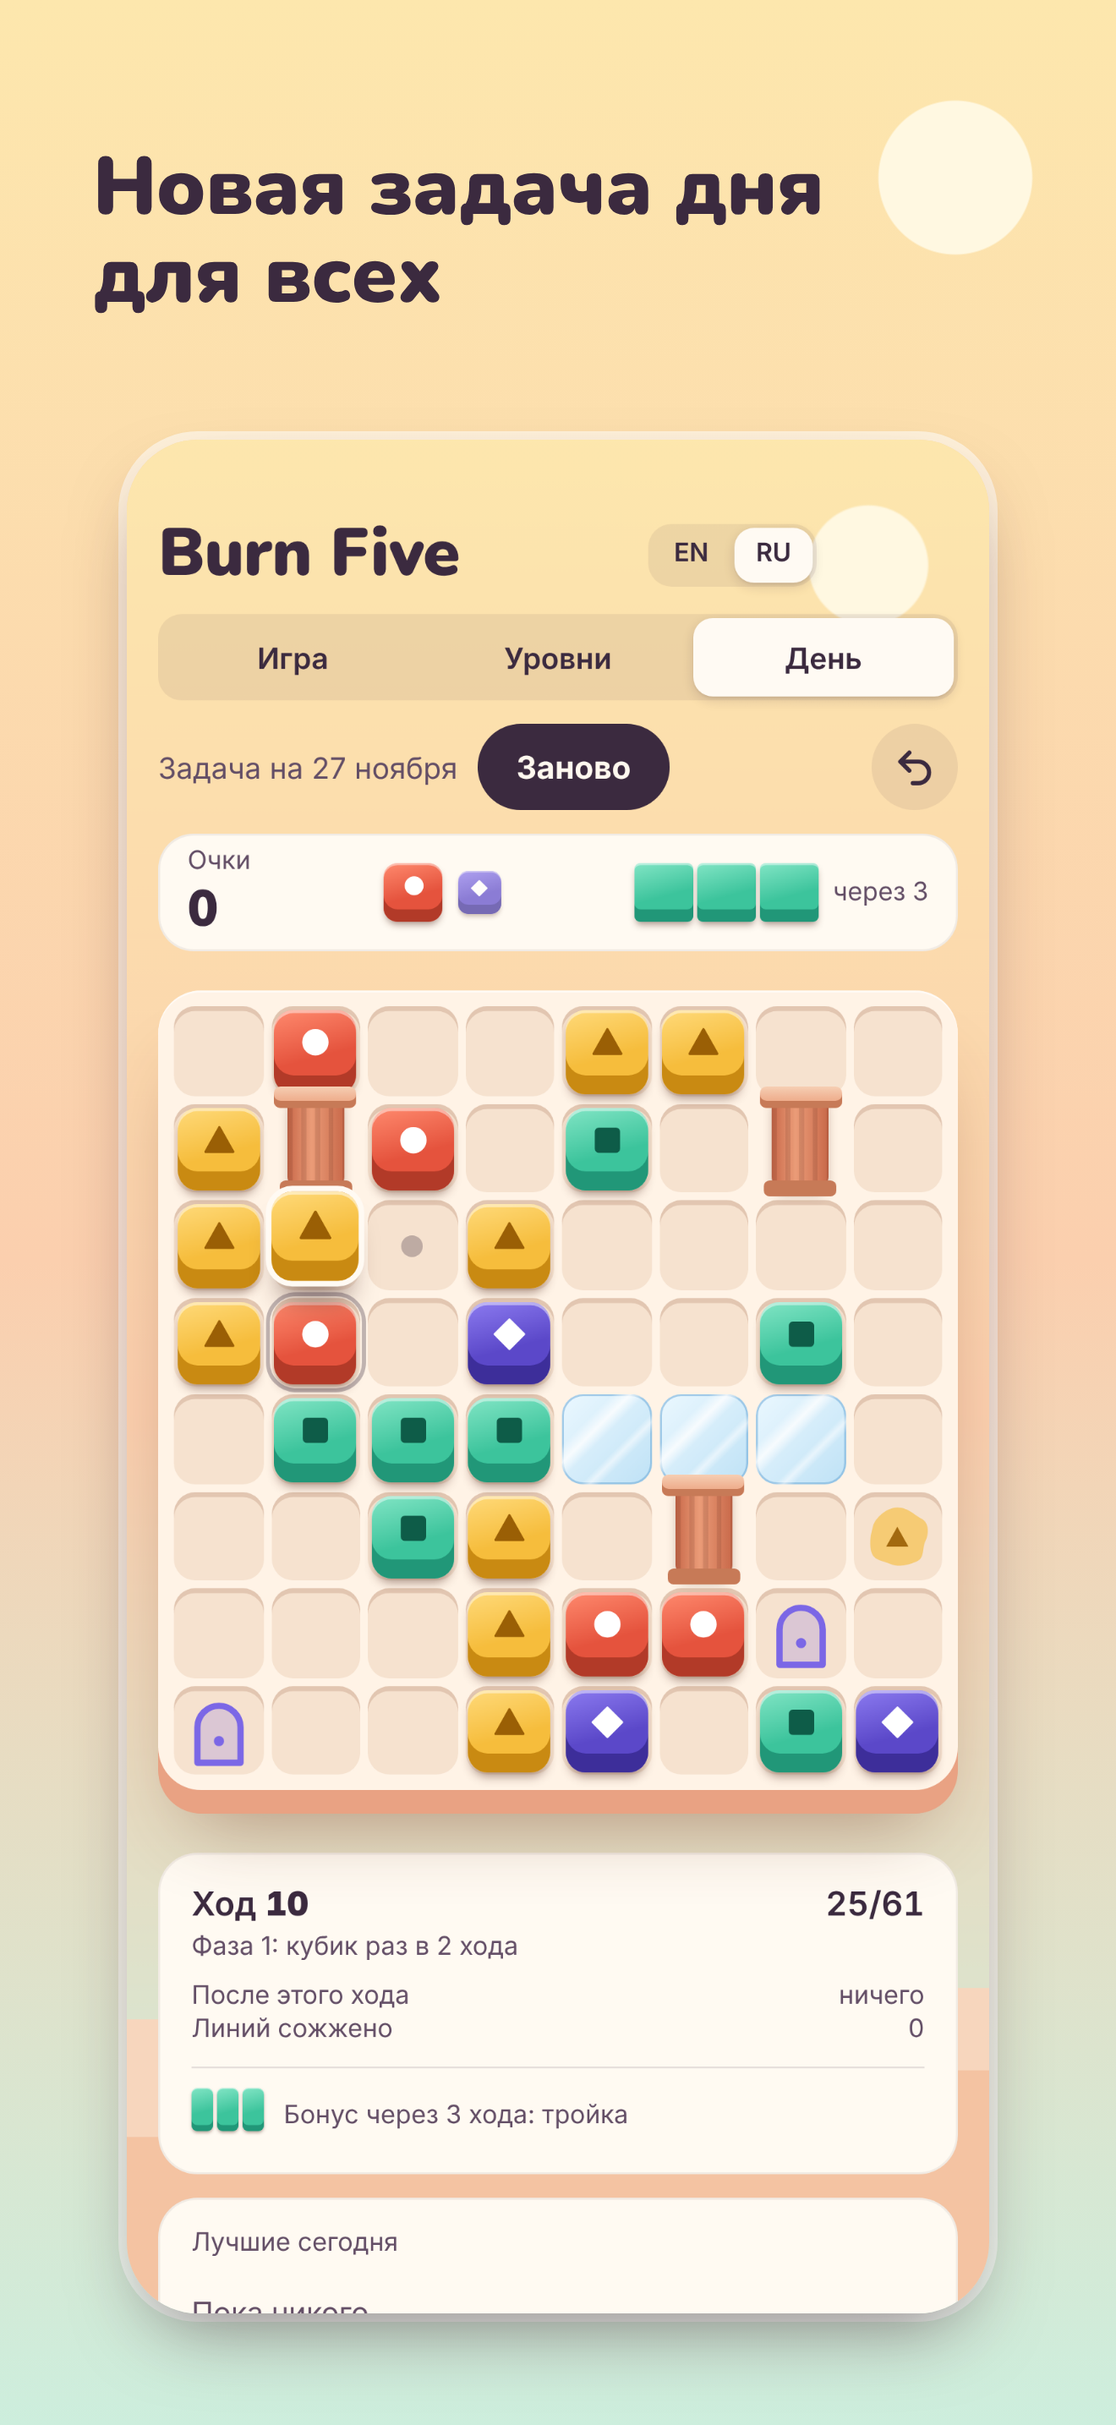
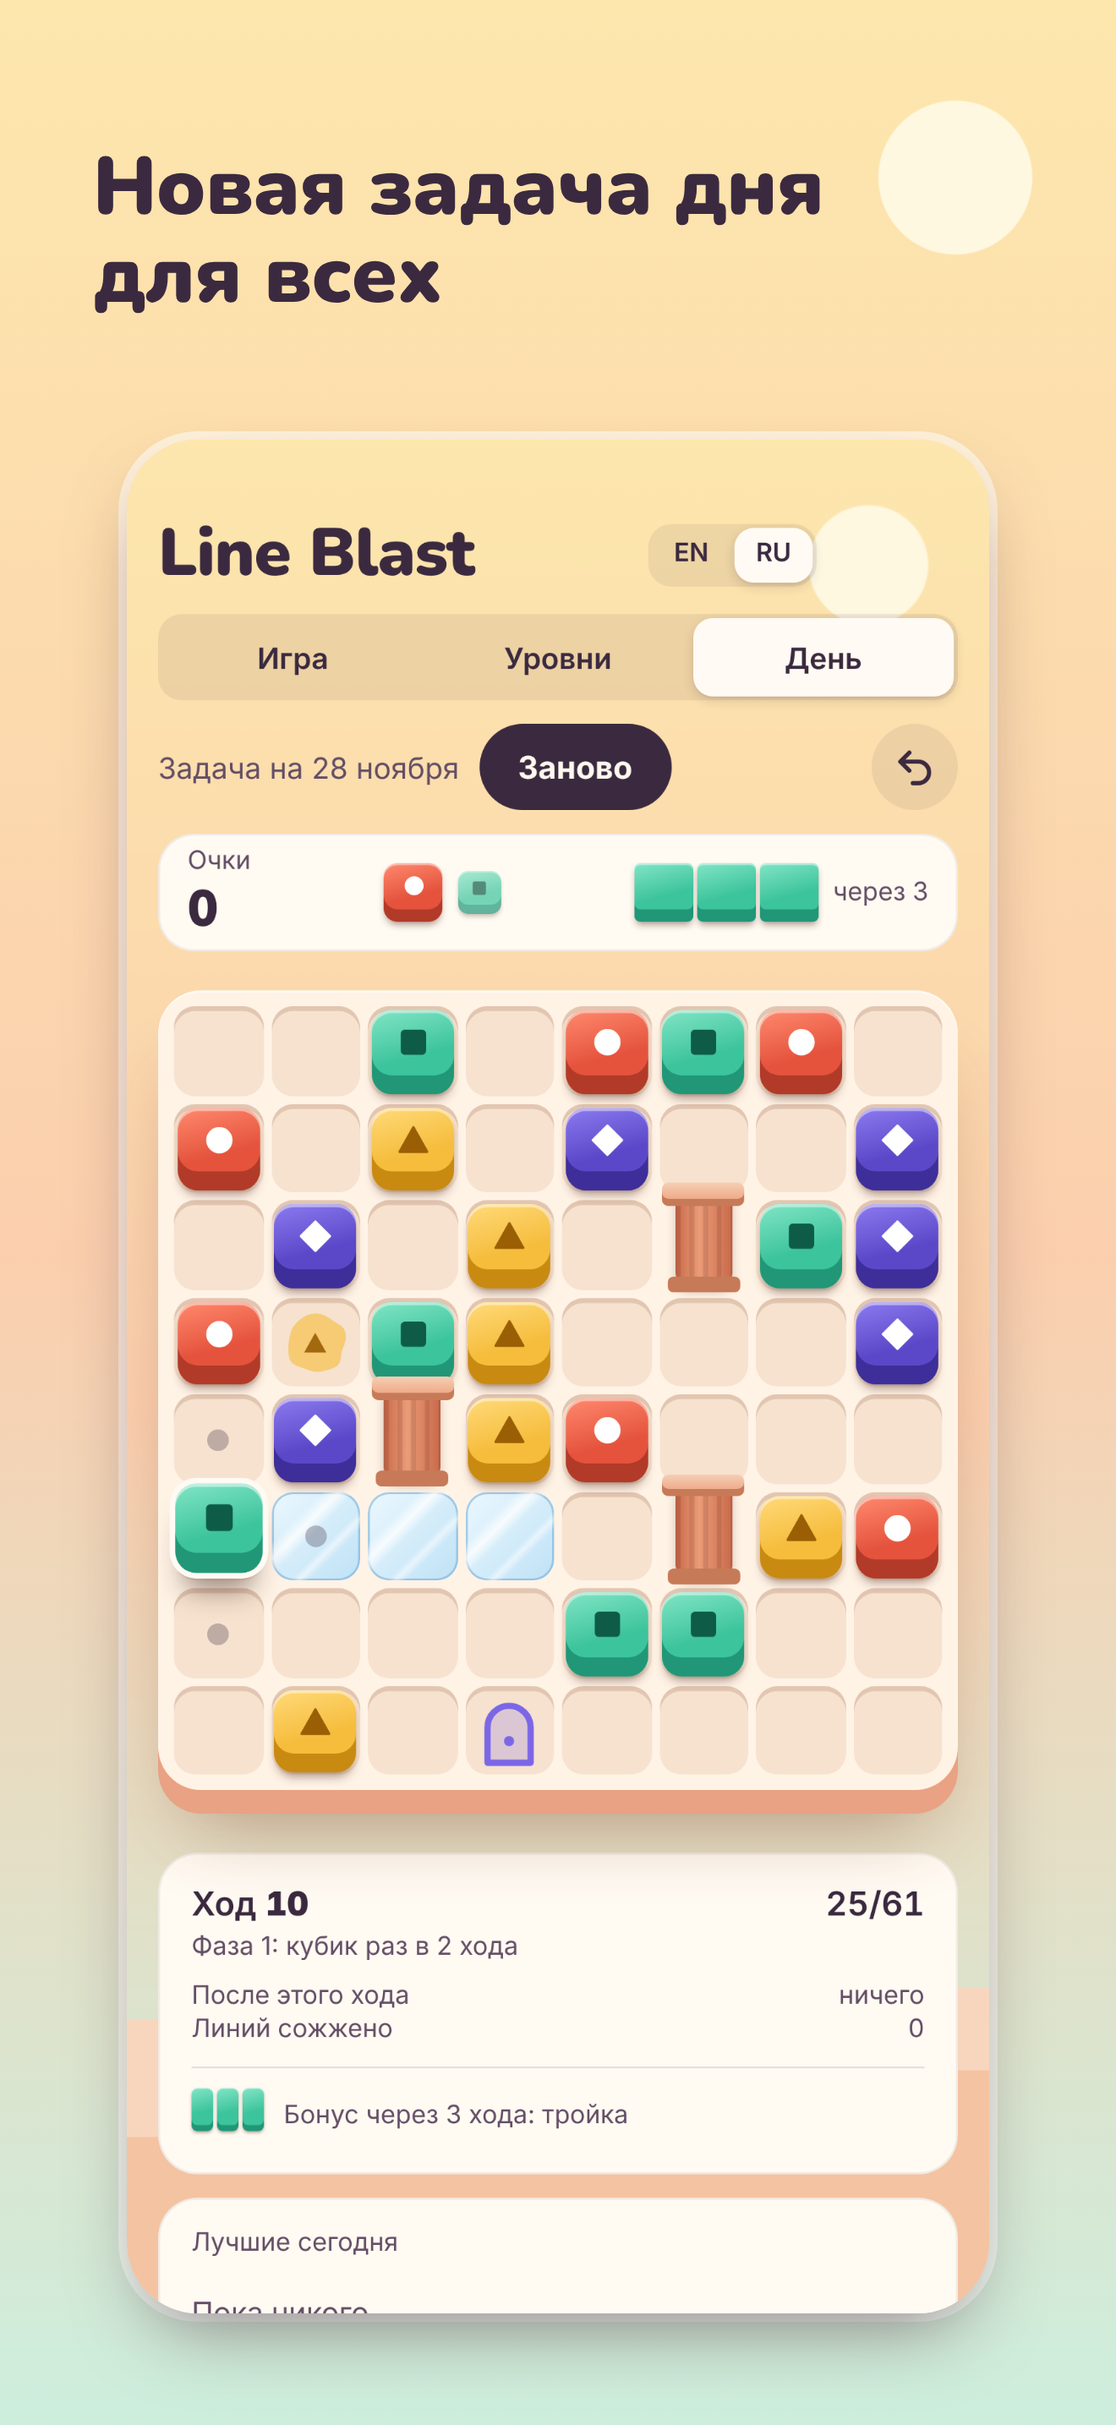
Rename the game to Line Blast: texts, iOS project and bundle id, new domain lineblast.daagamma.com, screenshots
Claude-Session: https://claude.ai/code/session_017meZVs2GYQYWqeDZ1v2bQn

diff --git a/src/worker.js b/src/worker.js
@@ -1,4 +1,4 @@
-// Burn Five: игра, прием итогов партий и закрытая страница статистики.
+// Line Blast: игра, прием итогов партий и закрытая страница статистики.
 // Привязки: KV namespace GAMES (wrangler.toml), секрет ADMIN_KEY (задается в Cloudflare).
 
 import HTML from './index.html';
@@ -79,14 +79,14 @@ function statsPage(all, key, sel){
     ['Трещины', sum('cr'), sum('stone'), 'окаменело']
   ];
   const rows = g.slice(0, 500).map(x => `<tr><td>${fmtDate(x.u)}</td><td>${MODE[x.m||'e']}${x.lv?' '+x.lv:''}</td><td>${(x.n||10)}×${(x.n||10)}</td><td>${esc(x.sid.slice(-4))}</td><td>${x.tu}</td><td>${x.sc}</td><td>${x.ln}</td><td>${x.dbl}</td><td>${x.Jb}/${x.J}</td><td>${x.Xb}/${x.X}</td><td>${x.T}</td><td>${fmtDur(x.dur)}</td><td>${x.dev==='t'?'телефон':'компьютер'}</td><td>${x.m==='l'&&x.r==='over'?(x.won?'победа':'поражение'):REASON[x.r]||x.r}</td></tr>`).join('');
-  return `<!DOCTYPE html><html lang="ru"><head><meta charset="utf-8"><meta name="viewport" content="width=device-width,initial-scale=1"><title>Burn Five: статистика</title>
+  return `<!DOCTYPE html><html lang="ru"><head><meta charset="utf-8"><meta name="viewport" content="width=device-width,initial-scale=1"><title>Line Blast: статистика</title>
 <style>body{margin:0;font:15px/1.5 system-ui,sans-serif;color:#111;background:#fff}.w{max-width:1100px;margin:0 auto;padding:28px 16px}
 h1{font-size:28px;margin:0 0 4px}h2{font-size:18px;margin:32px 0 8px;border-top:2px solid #111;padding-top:10px}.m{color:#6b6b6b;font-size:13px}
 .k{display:grid;grid-template-columns:repeat(auto-fill,minmax(200px,1fr));gap:16px 24px;margin-top:20px}.k b{display:block;font-size:30px;line-height:1.1}
 table{border-collapse:collapse;width:100%;font-variant-numeric:tabular-nums}td,th{padding:5px 8px 5px 0;border-bottom:1px solid #e6e6e6;text-align:left;white-space:nowrap}th{font-weight:600;font-size:13px;color:#6b6b6b}
 .s{overflow-x:auto}.bar{display:grid;grid-template-columns:110px 1fr 40px;gap:8px;align-items:center;margin:4px 0}.bar i{display:block;height:14px;background:#111}
 a{color:#111}</style></head><body><div class="w">
-<h1>Burn Five: статистика</h1><div class="m">Обновлено ${fmtDate(Date.now())}. <a href="/stats.csv?key=${encodeURIComponent(key)}">Скачать CSV</a></div>
+<h1>Line Blast: статистика</h1><div class="m">Обновлено ${fmtDate(Date.now())}. <a href="/stats.csv?key=${encodeURIComponent(key)}">Скачать CSV</a></div>
 <div class="m" style="margin-top:8px">Показать: ${[['8','игра 8×8'],['10','игра 10×10'],['l','уровни'],['d','задача дня'],['all','все']].map(([v,t]) => v === sel ? `<b>${t}</b>` : `<a href="/stats?key=${encodeURIComponent(key)}&n=${v}">${t}</a>`).join(' · ')}</div>
 <div class="k">${kpi.map(([a,b]) => `<div><span class="m">${a}</span><b>${b}</b></div>`).join('')}</div>
 ${extra}
@@ -112,10 +112,10 @@ function cors(resp){
 // Грубые слова в именах для таблицы дня заменяем на «Player»
 const BAD = /(fuck|shit|cunt|bitch|nigg|fag|whore|dick|pussy|хуй|хуе|хуя|пизд|ебан|ебат|ёб|бля|сука|мудак|пидор|пидар|гандон|шлюх|залуп)/i;
 
-const PRIVACY = `<!DOCTYPE html><html lang="en"><head><meta charset="utf-8"><meta name="viewport" content="width=device-width,initial-scale=1"><title>Burn Five: Privacy</title>
+const PRIVACY = `<!DOCTYPE html><html lang="en"><head><meta charset="utf-8"><meta name="viewport" content="width=device-width,initial-scale=1"><title>Line Blast: Privacy</title>
 <style>body{margin:0;font:17px/1.55 -apple-system,BlinkMacSystemFont,system-ui,sans-serif;color:#3b2a3f;background:#fff}.w{max-width:680px;margin:0 auto;padding:40px 20px}h1{font-size:30px;margin:0 0 6px}h2{font-size:20px;margin:36px 0 8px}p,li{margin:6px 0}.m{color:#6b5a6e;font-size:14px}</style></head><body><div class="w">
-<h1>Burn Five: Privacy Policy</h1><p class="m">Last updated: 27 November 2026</p>
-<p>Burn Five does not have accounts, does not show ads and does not track you across apps or websites.</p>
+<h1>Line Blast: Privacy Policy</h1><p class="m">Last updated: 27 November 2026</p>
+<p>Line Blast does not have accounts, does not show ads and does not track you across apps or websites.</p>
 <h2>What the game sends</h2>
 <ul><li><b>Game results</b>, to balance difficulty: number of moves, score, lines burned, bonuses used, game mode and level, board size, game length in seconds, whether the device is a phone, screen width, and whether the game ran in the app or in a browser. Each game is tagged with a random number created when the game opens. It is not stored between launches and cannot identify you.</li>
 <li><b>Daily challenge</b>: when a daily game ends, your score, number of moves and the name you typed (or “Player” and three random characters) are sent to the leaderboard and shown to other players.</li></ul>
@@ -180,7 +180,7 @@ export default {
       const key = url.searchParams.get('key') || '';
       if (!env.ADMIN_KEY || key !== env.ADMIN_KEY) return new Response('Not found', {status:404});
       const g = await allGames(env);
-      if (url.pathname === '/stats.csv') return new Response(csv(g), {headers:{'content-type':'text/csv; charset=utf-8','content-disposition':'attachment; filename="burnfive.csv"'}});
+      if (url.pathname === '/stats.csv') return new Response(csv(g), {headers:{'content-type':'text/csv; charset=utf-8','content-disposition':'attachment; filename="lineblast.csv"'}});
       const sel = ['8','10','l','d','all'].includes(url.searchParams.get('n')) ? url.searchParams.get('n') : '8';
       return new Response(statsPage(g, key, sel), {headers:{'content-type':'text/html; charset=utf-8','cache-control':'no-store','x-robots-tag':'noindex'}});
     }

diff --git a/ios/LineBlast/www/index.html b/ios/LineBlast/www/index.html
@@ -7,7 +7,7 @@
 <meta name="theme-color" content="#2c2452" media="(prefers-color-scheme: dark)">
 <meta name="apple-mobile-web-app-capable" content="yes">
 <meta name="apple-mobile-web-app-status-bar-style" content="default">
-<title>Burn Five</title>
+<title>Line Blast</title>
 <link rel="preconnect" href="https://fonts.googleapis.com">
 <link rel="preconnect" href="https://fonts.gstatic.com" crossorigin>
 <link href="https://fonts.googleapis.com/css2?family=Nunito:wght@600;700;800;900&display=swap" rel="stylesheet">
@@ -204,7 +204,7 @@ td{padding:7px 0;border-bottom:1px solid var(--sep)}tr:last-child td{border-bott
 <svg class="far" viewBox="0 0 390 300" preserveAspectRatio="none" aria-hidden="true"><path class="f1" d="M0 150h60v-24h70v-30h80v30h60v-18h60v26h60V300H0Z"/><path class="f2" d="M0 210h40v-20h90v-26h70v26h80v-14h110V300H0Z"/></svg>
 <div class="wrap">
 <header>
- <div class="titlerow"><h1>Burn Five</h1><div class="seg lang" role="group" data-ta="lang"><button data-l="en">EN</button><button data-l="ru">RU</button></div></div>
+ <div class="titlerow"><h1>Line Blast</h1><div class="seg lang" role="group" data-ta="lang"><button data-l="en">EN</button><button data-l="ru">RU</button></div></div>
  <div class="seg mode" role="group" data-ta="mode"><button data-m="e" data-t="mGame"></button><button data-m="l" data-t="mLevels"></button><button data-m="d" data-t="mDay"></button></div>
 </header>
 <div class="tools">

diff --git a/src/index.html b/src/index.html
@@ -7,7 +7,7 @@
 <meta name="theme-color" content="#2c2452" media="(prefers-color-scheme: dark)">
 <meta name="apple-mobile-web-app-capable" content="yes">
 <meta name="apple-mobile-web-app-status-bar-style" content="default">
-<title>Burn Five</title>
+<title>Line Blast</title>
 <link rel="preconnect" href="https://fonts.googleapis.com">
 <link rel="preconnect" href="https://fonts.gstatic.com" crossorigin>
 <link href="https://fonts.googleapis.com/css2?family=Nunito:wght@600;700;800;900&display=swap" rel="stylesheet">
@@ -204,7 +204,7 @@ td{padding:7px 0;border-bottom:1px solid var(--sep)}tr:last-child td{border-bott
 <svg class="far" viewBox="0 0 390 300" preserveAspectRatio="none" aria-hidden="true"><path class="f1" d="M0 150h60v-24h70v-30h80v30h60v-18h60v26h60V300H0Z"/><path class="f2" d="M0 210h40v-20h90v-26h70v26h80v-14h110V300H0Z"/></svg>
 <div class="wrap">
 <header>
- <div class="titlerow"><h1>Burn Five</h1><div class="seg lang" role="group" data-ta="lang"><button data-l="en">EN</button><button data-l="ru">RU</button></div></div>
+ <div class="titlerow"><h1>Line Blast</h1><div class="seg lang" role="group" data-ta="lang"><button data-l="en">EN</button><button data-l="ru">RU</button></div></div>
  <div class="seg mode" role="group" data-ta="mode"><button data-m="e" data-t="mGame"></button><button data-m="l" data-t="mLevels"></button><button data-m="d" data-t="mDay"></button></div>
 </header>
 <div class="tools">

diff --git a/ios/LineBlast/GameView.swift b/ios/LineBlast/GameView.swift
@@ -2,7 +2,7 @@ import SwiftUI
 import UIKit
 import WebKit
 
-/// Игра живет в папке www внутри приложения и открывается со схемы burnfive://localhost,
+/// Игра живет в папке www внутри приложения и открывается со схемы lineblast://localhost,
 /// поэтому работает без интернета, а localStorage (рекорды, прогресс) сохраняется между запусками.
 struct GameView: UIViewRepresentable {
     func makeCoordinator() -> Coordinator { Coordinator() }
@@ -73,9 +73,9 @@ struct GameView: UIViewRepresentable {
     }
 }
 
-/// Отдает файлы из папки www внутри приложения по адресам burnfive://localhost/<файл>
+/// Отдает файлы из папки www внутри приложения по адресам lineblast://localhost/<файл>
 final class BundleSchemeHandler: NSObject, WKURLSchemeHandler {
-    static let scheme = "burnfive"
+    static let scheme = "lineblast"
 
     func webView(_ webView: WKWebView, start task: WKURLSchemeTask) {
         guard let url = task.request.url else { return }

diff --git a/ios/LineBlast/www/app.js b/ios/LineBlast/www/app.js
@@ -5,8 +5,8 @@ const cname=c=>t('color')[c],bname=b=>t('bonus')[b];
 const tname=x=>x?(t('terrain')[x[0]]||t('terrain').O):t('empty');
 const LEVELS=window.BF_LEVELS;
 const boardEl=$('board');
-// В приложении для iOS страница открывается со схемы burnfive://, сервер тогда указываем полностью
-const NATIVE=location.protocol==='burnfive:',API=NATIVE?'https://burnfive.daagamma.com':'';
+// В приложении для iOS страница открывается со схемы lineblast://, сервер тогда указываем полностью
+const NATIVE=location.protocol==='lineblast:',API=NATIVE?'https://lineblast.daagamma.com':'';
 const hap=k=>{try{window.webkit.messageHandlers.bf.postMessage({h:k})}catch(e){}};
 const SID=Date.now().toString(36)+Math.random().toString(36).slice(2,6);
 const TOUCH=matchMedia('(pointer: coarse)').matches;

diff --git a/src/app.js b/src/app.js
@@ -5,8 +5,8 @@ const cname=c=>t('color')[c],bname=b=>t('bonus')[b];
 const tname=x=>x?(t('terrain')[x[0]]||t('terrain').O):t('empty');
 const LEVELS=window.BF_LEVELS;
 const boardEl=$('board');
-// В приложении для iOS страница открывается со схемы burnfive://, сервер тогда указываем полностью
-const NATIVE=location.protocol==='burnfive:',API=NATIVE?'https://burnfive.daagamma.com':'';
+// В приложении для iOS страница открывается со схемы lineblast://, сервер тогда указываем полностью
+const NATIVE=location.protocol==='lineblast:',API=NATIVE?'https://lineblast.daagamma.com':'';
 const hap=k=>{try{window.webkit.messageHandlers.bf.postMessage({h:k})}catch(e){}};
 const SID=Date.now().toString(36)+Math.random().toString(36).slice(2,6);
 const TOUCH=matchMedia('(pointer: coarse)').matches;

diff --git a/ios/LineBlast/www/levels.js b/ios/LineBlast/www/levels.js
@@ -1,4 +1,4 @@
-/* Burn Five: уровни (name/hint по-русски, name_en/hint_en по-английски). terrain: . пусто, P колонна, I лед, R Y G V краска, 1 2 пары порталов.
+/* Line Blast: уровни (name/hint по-русски, name_en/hint_en по-английски). terrain: . пусто, P колонна, I лед, R Y G V краска, 1 2 пары порталов.
    pieces: r y g b кубики, S камень, X уничтожитель, J джокер, ! треснутый кубик. */
 (function(root){
 const E='........';

diff --git a/src/levels.js b/src/levels.js
@@ -1,4 +1,4 @@
-/* Burn Five: уровни (name/hint по-русски, name_en/hint_en по-английски). terrain: . пусто, P колонна, I лед, R Y G V краска, 1 2 пары порталов.
+/* Line Blast: уровни (name/hint по-русски, name_en/hint_en по-английски). terrain: . пусто, P колонна, I лед, R Y G V краска, 1 2 пары порталов.
    pieces: r y g b кубики, S камень, X уничтожитель, J джокер, ! треснутый кубик. */
 (function(root){
 const E='........';

diff --git a/ios/LineBlast/www/engine.js b/ios/LineBlast/www/engine.js
@@ -1,4 +1,4 @@
-/* Burn Five: игровой движок. Чистая логика без DOM, детерминированная при заданном seed.
+/* Line Blast: игровой движок. Чистая логика без DOM, детерминированная при заданном seed.
    Работает и в браузере (глобальный BF), и в node (module.exports). */
 (function(root){
 'use strict';

diff --git a/src/engine.js b/src/engine.js
@@ -1,4 +1,4 @@
-/* Burn Five: игровой движок. Чистая логика без DOM, детерминированная при заданном seed.
+/* Line Blast: игровой движок. Чистая логика без DOM, детерминированная при заданном seed.
    Работает и в браузере (глобальный BF), и в node (module.exports). */
 (function(root){
 'use strict';

diff --git a/ios/LineBlast/www/i18n.js b/ios/LineBlast/www/i18n.js
@@ -1,4 +1,4 @@
-/* Burn Five: тексты интерфейса. Английский по умолчанию, русский как опция. */
+/* Line Blast: тексты интерфейса. Английский по умолчанию, русский как опция. */
 (function(root){
 const ruPl=(n,a,b,c)=>{const m=n%10,h=n%100;return m===1&&h!==11?a:m>=2&&m<=4&&(h<12||h>14)?b:c};
 const enPl=(n,a,b)=>n===1?a:b;

diff --git a/src/i18n.js b/src/i18n.js
@@ -1,4 +1,4 @@
-/* Burn Five: тексты интерфейса. Английский по умолчанию, русский как опция. */
+/* Line Blast: тексты интерфейса. Английский по умолчанию, русский как опция. */
 (function(root){
 const ruPl=(n,a,b,c)=>{const m=n%10,h=n%100;return m===1&&h!==11?a:m>=2&&m<=4&&(h<12||h>14)?b:c};
 const enPl=(n,a,b)=>n===1?a:b;
